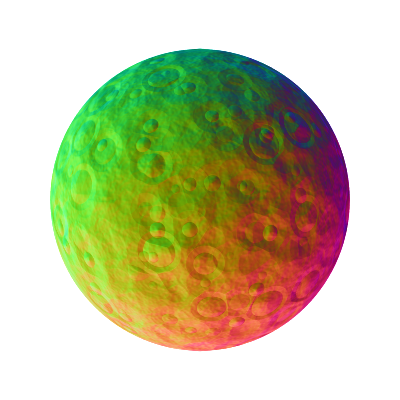
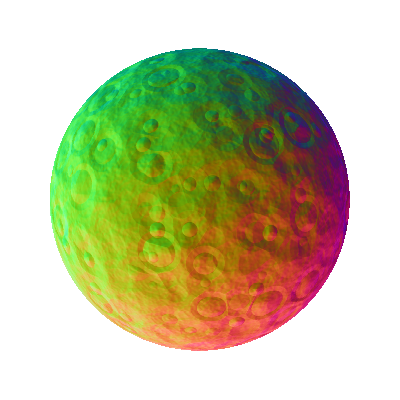
added possibility to enable or disable dynamic lighting

diff --git a/src/swift2d/graphics/Compositor.cpp b/src/swift2d/graphics/Compositor.cpp
@@ -17,7 +17,8 @@ namespace swift {
 ////////////////////////////////////////////////////////////////////////////////
 
 Compositor::Compositor()
-  : vs_(nullptr)
+  : EnableDynamicLighting(false)
+  , vs_(nullptr)
   , fs_(nullptr)
   , prog_(nullptr)
   , fbo_(nullptr)
@@ -37,102 +38,108 @@ void Compositor::init(RenderContext const& ctx) {
 
   clean_up();
 
-  fullscreen_quad_ = ScreenQuadResource::create();
+  if (EnableDynamicLighting()) {
+    fullscreen_quad_ = ScreenQuadResource::create();
 
-  // create textures for G-Buffer and L-Buffer ---------------------------------
-  offscreen_color_  = new oglplus::Texture();
-  offscreen_normal_ = new oglplus::Texture();
-  offscreen_light_  = new oglplus::Texture();
+    // create textures for G-Buffer and L-Buffer ---------------------------------
+    offscreen_color_  = new oglplus::Texture();
+    offscreen_normal_ = new oglplus::Texture();
+    offscreen_light_  = new oglplus::Texture();
 
-  auto create_texture = [&](oglplus::Texture* tex, int loc,
-                            oglplus::enums::PixelDataInternalFormat i_format,
-                            oglplus::enums::PixelDataFormat p_format){
+    auto create_texture = [&](oglplus::Texture* tex, int loc,
+                              oglplus::enums::PixelDataInternalFormat i_format,
+                              oglplus::enums::PixelDataFormat p_format){
 
-    oglplus::Texture::Active(loc);
-    ctx.gl.Bound(oglplus::Texture::Target::_2D, *tex)
-      .MinFilter(oglplus::TextureMinFilter::Nearest)
-      .MagFilter(oglplus::TextureMagFilter::Nearest)
-      .WrapS(oglplus::TextureWrap::ClampToEdge)
-      .WrapT(oglplus::TextureWrap::ClampToEdge)
-      .Image2D(0, i_format, ctx.size.x(), ctx.size.y(),
-        0, p_format, oglplus::PixelDataType::Float, nullptr
-      );
-  };
+      oglplus::Texture::Active(loc);
+      ctx.gl.Bound(oglplus::Texture::Target::_2D, *tex)
+        .MinFilter(oglplus::TextureMinFilter::Nearest)
+        .MagFilter(oglplus::TextureMagFilter::Nearest)
+        .WrapS(oglplus::TextureWrap::ClampToEdge)
+        .WrapT(oglplus::TextureWrap::ClampToEdge)
+        .Image2D(0, i_format, ctx.size.x(), ctx.size.y(),
+          0, p_format, oglplus::PixelDataType::Float, nullptr
+        );
+    };
 
-  create_texture(offscreen_color_,  2, oglplus::PixelDataInternalFormat::RGBA,
-                 oglplus::PixelDataFormat::RGBA);
-  create_texture(offscreen_normal_, 3, oglplus::PixelDataInternalFormat::RGBA,
-                 oglplus::PixelDataFormat::RGBA);
-  create_texture(offscreen_light_,  4, oglplus::PixelDataInternalFormat::RGBA,
-                 oglplus::PixelDataFormat::RGBA);
-
-
-  // create framebuffer object -------------------------------------------------
-  fbo_ = new oglplus::Framebuffer();
-  fbo_->Bind(oglplus::Framebuffer::Target::Draw);
-  oglplus::Framebuffer::AttachColorTexture(oglplus::Framebuffer::Target::Draw,
-                                           0, *offscreen_color_, 0);
-  oglplus::Framebuffer::AttachColorTexture(oglplus::Framebuffer::Target::Draw,
-                                           1, *offscreen_normal_, 0);
-  oglplus::Framebuffer::AttachColorTexture(oglplus::Framebuffer::Target::Draw,
-                                           2, *offscreen_light_, 0);
+    create_texture(offscreen_color_,  2, oglplus::PixelDataInternalFormat::RGB,
+                   oglplus::PixelDataFormat::RGB);
+    create_texture(offscreen_normal_, 3, oglplus::PixelDataInternalFormat::RGB,
+                   oglplus::PixelDataFormat::RGB);
+    create_texture(offscreen_light_,  4, oglplus::PixelDataInternalFormat::RGB,
+                   oglplus::PixelDataFormat::RGB);
 
 
-  // create shaders ------------------------------------------------------------
-  // set the vertex shader source
-  std::stringstream vs_source(
-    "#version 330\n"
-    "layout(location=0) in vec2 position;"
-    "uniform mat3 transform;"
-    "out vec2 tex_coords;"
-    "void main(void){"
-    "  tex_coords = position*0.5 + 0.5;"
-    "  gl_Position = vec4(position, 0.0, 1.0);"
-    "}"
-  );
-  vs_ = new oglplus::Shader(oglplus::ShaderType::Vertex);
-  vs_->Source(oglplus::GLSLSource::FromStream(vs_source));
-  try {
-    vs_->Compile();
-  } catch (oglplus::CompileError& e) {
-    LOG_ERROR << "Failed to compile Vertex Shader!" << std::endl;
-    LOG_ERROR << e.Log() << std::endl;
-  }
+    // create framebuffer object -------------------------------------------------
+    fbo_ = new oglplus::Framebuffer();
+    fbo_->Bind(oglplus::Framebuffer::Target::Draw);
+    oglplus::Framebuffer::AttachColorTexture(oglplus::Framebuffer::Target::Draw,
+                                             0, *offscreen_color_, 0);
+    oglplus::Framebuffer::AttachColorTexture(oglplus::Framebuffer::Target::Draw,
+                                             1, *offscreen_normal_, 0);
+    oglplus::Framebuffer::AttachColorTexture(oglplus::Framebuffer::Target::Draw,
+                                             2, *offscreen_light_, 0);
 
-  // set the fragment shader source
-  std::stringstream fs_source(
-    "#version 330\n"
-    "in vec2 tex_coords;"
-    "uniform sampler2D diffuse;"
-    "uniform sampler2D light;"
-    ""
-    "layout (location = 0) out vec4 fragColor;"
-    ""
-    "void main(void){"
-    "  vec4 light_color = texture2D(light, tex_coords);"
-    "  fragColor   = texture2D(diffuse, tex_coords) + light_color;"
-    "}"
-  );
 
-  fs_ = new oglplus::Shader(oglplus::ShaderType::Fragment);
-  fs_->Source(oglplus::GLSLSource::FromStream(fs_source));
-  try {
-    fs_->Compile();
-  } catch (oglplus::CompileError& e) {
-    LOG_ERROR << "Failed to compile Fragment Shader!" << std::endl;
-    LOG_ERROR << e.Log() << std::endl;
-  }
+    // create shaders ------------------------------------------------------------
+    // set the vertex shader source
+    std::stringstream vs_source(
+      "#version 330\n"
+      "layout(location=0) in vec2 position;"
+      "uniform mat3 transform;"
+      "out vec2 tex_coords;"
+      "void main(void){"
+      "  tex_coords = position*0.5 + 0.5;"
+      "  gl_Position = vec4(position, 0.0, 1.0);"
+      "}"
+    );
+    vs_ = new oglplus::Shader(oglplus::ShaderType::Vertex);
+    vs_->Source(oglplus::GLSLSource::FromStream(vs_source));
+    try {
+      vs_->Compile();
+    } catch (oglplus::CompileError& e) {
+      LOG_ERROR << "Failed to compile Vertex Shader!" << std::endl;
+      LOG_ERROR << e.Log() << std::endl;
+    }
 
-  // attach the shaders to the program
-  prog_ = new oglplus::Program();
-  prog_->AttachShader(*vs_);
-  prog_->AttachShader(*fs_);
+    // set the fragment shader source
+    std::stringstream fs_source(
+      "#version 330\n"
+      "in vec2 tex_coords;"
+      "uniform sampler2D diffuse;"
+      "uniform sampler2D light;"
+      "uniform bool      debug;"
+      ""
+      "layout (location = 0) out vec4 fragColor;"
+      ""
+      "void main(void){"
+      "  vec4 light_color = texture2D(light, tex_coords);"
+      "  fragColor   = texture2D(diffuse, tex_coords) * light_color;"
+      "  if (debug) {"
+      "    fragColor   = texture2D(diffuse, tex_coords);"
+      "  }"
+      "}"
+    );
 
-  // link it
-  try {
-    prog_->Link();
-  } catch (oglplus::LinkError& e) {
-    LOG_ERROR << e.Log() << std::endl;
+    fs_ = new oglplus::Shader(oglplus::ShaderType::Fragment);
+    fs_->Source(oglplus::GLSLSource::FromStream(fs_source));
+    try {
+      fs_->Compile();
+    } catch (oglplus::CompileError& e) {
+      LOG_ERROR << "Failed to compile Fragment Shader!" << std::endl;
+      LOG_ERROR << e.Log() << std::endl;
+    }
+
+    // attach the shaders to the program
+    prog_ = new oglplus::Program();
+    prog_->AttachShader(*vs_);
+    prog_->AttachShader(*fs_);
+
+    // link it
+    try {
+      prog_->Link();
+    } catch (oglplus::LinkError& e) {
+      LOG_ERROR << e.Log() << std::endl;
+    }
   }
 }
 
@@ -144,16 +151,26 @@ void Compositor::draw_objects(ConstSerializedScenePtr const& scene, RenderContex
     oglplus::BlendFunction::OneMinusSrcAlpha
   );
 
-  // oglplus::DefaultFramebuffer::Bind(oglplus::Framebuffer::Target::Draw);
-  // ctx.gl.DrawBuffer(oglplus::ColorBuffer::BackLeft);
+  if (EnableDynamicLighting()) {
+    if (!fullscreen_quad_) {
+      init(ctx);
+    }
 
-  fbo_->Bind(oglplus::Framebuffer::Target::Draw);
+    fbo_->Bind(oglplus::Framebuffer::Target::Draw);
 
-  oglplus::Context::ColorBuffer draw_buffs[2] =  {
-    oglplus::FramebufferColorAttachment::_0,
-    oglplus::FramebufferColorAttachment::_1
-  };
-  ctx.gl.DrawBuffers(draw_buffs);
+    oglplus::Context::ColorBuffer draw_buffs[2] =  {
+      oglplus::FramebufferColorAttachment::_0,
+      oglplus::FramebufferColorAttachment::_1
+    };
+    ctx.gl.DrawBuffers(draw_buffs);
+
+    GLfloat clear[3] = {0.5f, 0.5f, 0.f};
+    ctx.gl.ClearColorBuffer(1, clear);
+
+  } else {
+    oglplus::DefaultFramebuffer::Bind(oglplus::Framebuffer::Target::Draw);
+    ctx.gl.DrawBuffer(oglplus::ColorBuffer::BackLeft);
+  }
 
   for (auto& object: scene->objects) {
     object.second->draw(ctx);
@@ -163,39 +180,56 @@ void Compositor::draw_objects(ConstSerializedScenePtr const& scene, RenderContex
 ////////////////////////////////////////////////////////////////////////////////
 
 void Compositor::draw_lights(ConstSerializedScenePtr const& scene, RenderContext const& ctx) {
-  ctx.gl.BlendFunc(
-    oglplus::BlendFunction::One,
-    oglplus::BlendFunction::One
-  );
+  if (EnableDynamicLighting()) {
+    if (!fullscreen_quad_) {
+      init(ctx);
+    }
 
-  ctx.gl.DrawBuffer(oglplus::FramebufferColorAttachment::_2);
+    ctx.gl.BlendFunc(
+      oglplus::BlendFunction::One,
+      oglplus::BlendFunction::One
+    );
 
-  GLfloat clear[4] = {0.f, 0.f, 0.f, 0.f};
-  ctx.gl.ClearColorBuffer(0, clear);
+    ctx.gl.DrawBuffer(oglplus::FramebufferColorAttachment::_2);
 
-  for (auto& light: scene->lights) {
-    light.second->draw(ctx);
+    GLfloat clear[3] = {0.f, 0.f, 0.f};
+    ctx.gl.ClearColorBuffer(0, clear);
+
+    for (auto& light: scene->lights) {
+      light.second->draw(ctx);
+    }
   }
 }
 
 ////////////////////////////////////////////////////////////////////////////////
 
 void Compositor::composite(ConstSerializedScenePtr const& scene, RenderContext const& ctx) {
-  oglplus::DefaultFramebuffer::Bind(oglplus::Framebuffer::Target::Draw);
-  ctx.gl.DrawBuffer(oglplus::ColorBuffer::BackLeft);
+  if (EnableDynamicLighting()) {
+    if (!fullscreen_quad_) {
+      init(ctx);
+    }
 
-  oglplus::Texture::Active(0);
-  ctx.gl.Bind(oglplus::smart_enums::_2D(), *offscreen_color_);
+    oglplus::DefaultFramebuffer::Bind(oglplus::Framebuffer::Target::Draw);
+    ctx.gl.DrawBuffer(oglplus::ColorBuffer::BackLeft);
 
-  oglplus::Texture::Active(1);
-  ctx.gl.Bind(oglplus::smart_enums::_2D(), *offscreen_light_);
+    oglplus::Texture::Active(0);
+    ctx.gl.Bind(oglplus::smart_enums::_2D(), *offscreen_color_);
 
-  prog_->Use();
+    oglplus::Texture::Active(1);
+    ctx.gl.Bind(oglplus::smart_enums::_2D(), *offscreen_light_);
 
-  (*prog_/"diffuse") = 0;
-  (*prog_/"light") = 1;
+    oglplus::Texture::Active(2);
+    ctx.gl.Bind(oglplus::smart_enums::_2D(), *offscreen_normal_);
 
-  fullscreen_quad_->draw(ctx);
+    prog_->Use();
+
+    (*prog_/"diffuse") = 0;
+    (*prog_/"light") = 1;
+
+    (*prog_/"debug") = 0;
+
+    fullscreen_quad_->draw(ctx);
+  }
 }
 
 ////////////////////////////////////////////////////////////////////////////////

diff --git a/src/swift2d/resources/LightResource.cpp b/src/swift2d/resources/LightResource.cpp
@@ -27,11 +27,11 @@ LightResource::LightResource()
 ////////////////////////////////////////////////////////////////////////////////
 
 LightResource::~LightResource() {
-  if (vs) delete vs;
-  if (fs) delete fs;
-  if (prog) delete prog;
-  if (rectangle) delete rectangle;
-  if (verts) delete verts;
+  if (vs)         delete vs;
+  if (fs)         delete fs;
+  if (prog)       delete prog;
+  if (rectangle)  delete rectangle;
+  if (verts)      delete verts;
 }
 
 ////////////////////////////////////////////////////////////////////////////////
@@ -70,7 +70,7 @@ void LightResource::upload_to(RenderContext const& ctx) const {
     "uniform sampler2D normal_tex;"
     "uniform ivec2 screen_size;"
     ""
-    "out vec4 fragColor;"
+    "out vec3 fragColor;"
     ""
     "void main(void){"
     "  vec3 color       = texture2D(diffuse_tex, gl_FragCoord.xy/screen_size).rgb;"
@@ -80,10 +80,10 @@ void LightResource::upload_to(RenderContext const& ctx) const {
     "  vec3 light_dir   = normalize(light.rgb - 0.5);"
     "  vec3 surface_dir = normalize(normal.rgb - 0.5);"
     ""
-    "  float spot       = pow(max(0, dot(vec3(0, 0, -1), reflect(-light_dir, surface_dir))), 10) * normal.a;"
+    "  float spot       = pow(max(0, dot(vec3(0, 0, -1), reflect(-light_dir, surface_dir))), 50) * normal.a;"
     "  float intensity  = max(0, dot(light_dir, surface_dir)) * normal.a;"
     ""
-    "  fragColor        = vec4(intensity, spot, 0, 1);"
+    "  fragColor        = vec3(min(1, intensity*0.5 + spot));"
     "}"
   );
 
@@ -100,6 +100,7 @@ void LightResource::upload_to(RenderContext const& ctx) const {
   prog = new oglplus::Program();
   prog->AttachShader(*vs);
   prog->AttachShader(*fs);
+
   // link and use it
   try {
     prog->Link();

diff --git a/include/swift2d/graphics/Compositor.hpp b/include/swift2d/graphics/Compositor.hpp
@@ -29,6 +29,9 @@ class Compositor {
  // ----------------------------------------------------------- public interface
  public:
 
+  // ---------------------------------------------------------------- properties
+  Bool EnableDynamicLighting;
+
   // ---------------------------------------------------- construction interface
   template <typename... Args>
   static CompositorPtr create(Args&& ... a) {

diff --git a/examples/simple/main.cpp b/examples/simple/main.cpp
@@ -82,7 +82,7 @@ int main(int argc, char** argv) {
   auto light = light_object->add<PointLightComponent>();
        light->Depth = 1.0f;
        light->Sprite = LightResource::create();
-       light->Transform = math::make_scale(3);
+       light->Transform = math::make_scale(1);
        light->Tex = TextureResource::create("light.png");
 
   // todo: screen aligned sprites!

diff --git a/src/swift2d/graphics/Pipeline.cpp b/src/swift2d/graphics/Pipeline.cpp
@@ -40,6 +40,7 @@ void Pipeline::draw(ConstSerializedScenePtr const& scene) {
   if (!window_->Open()) {
     window_->Open = true;
     compositor_ = Compositor::create();
+    compositor_->EnableDynamicLighting = false;
   }
 
   // update window size
